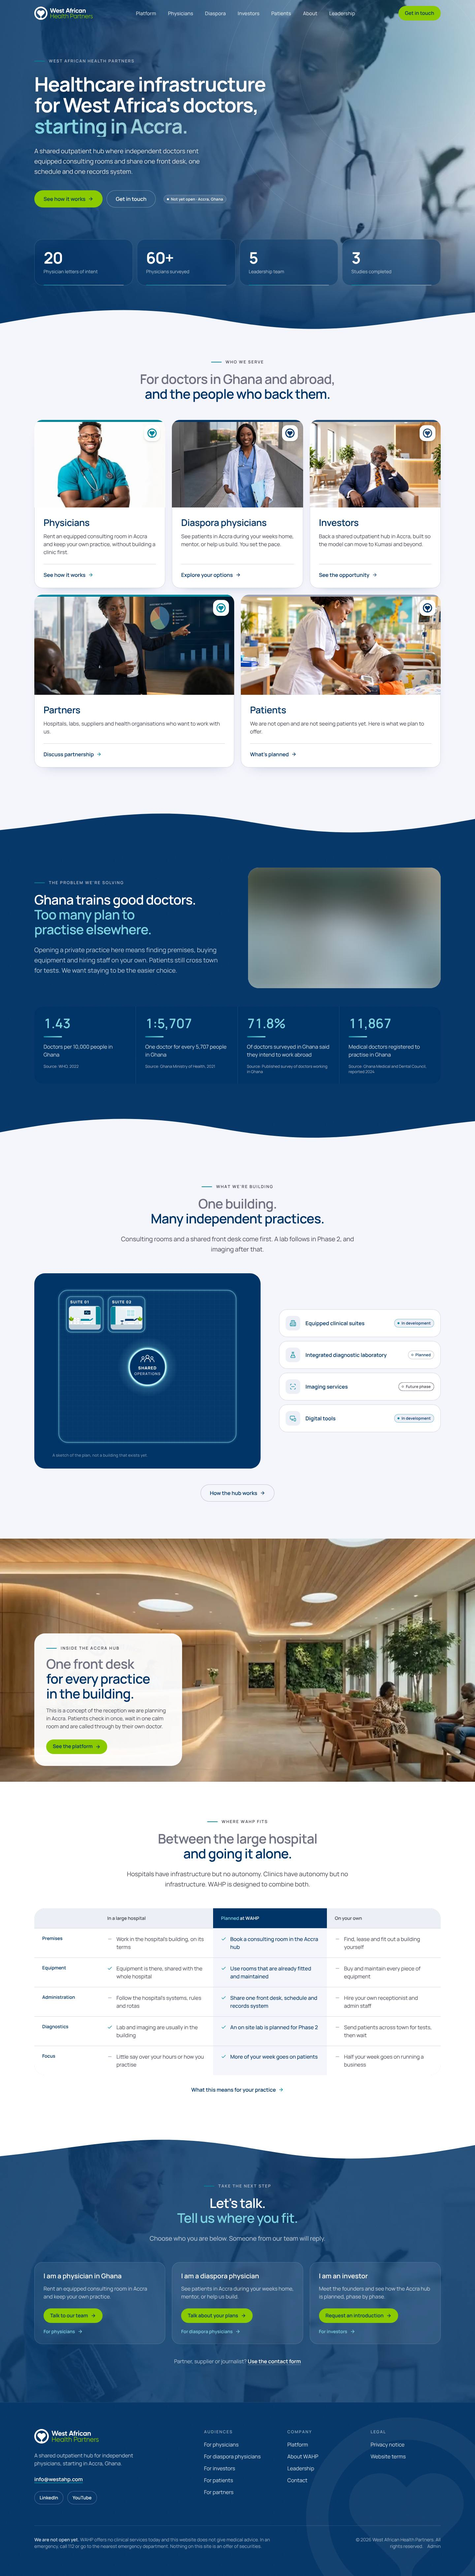
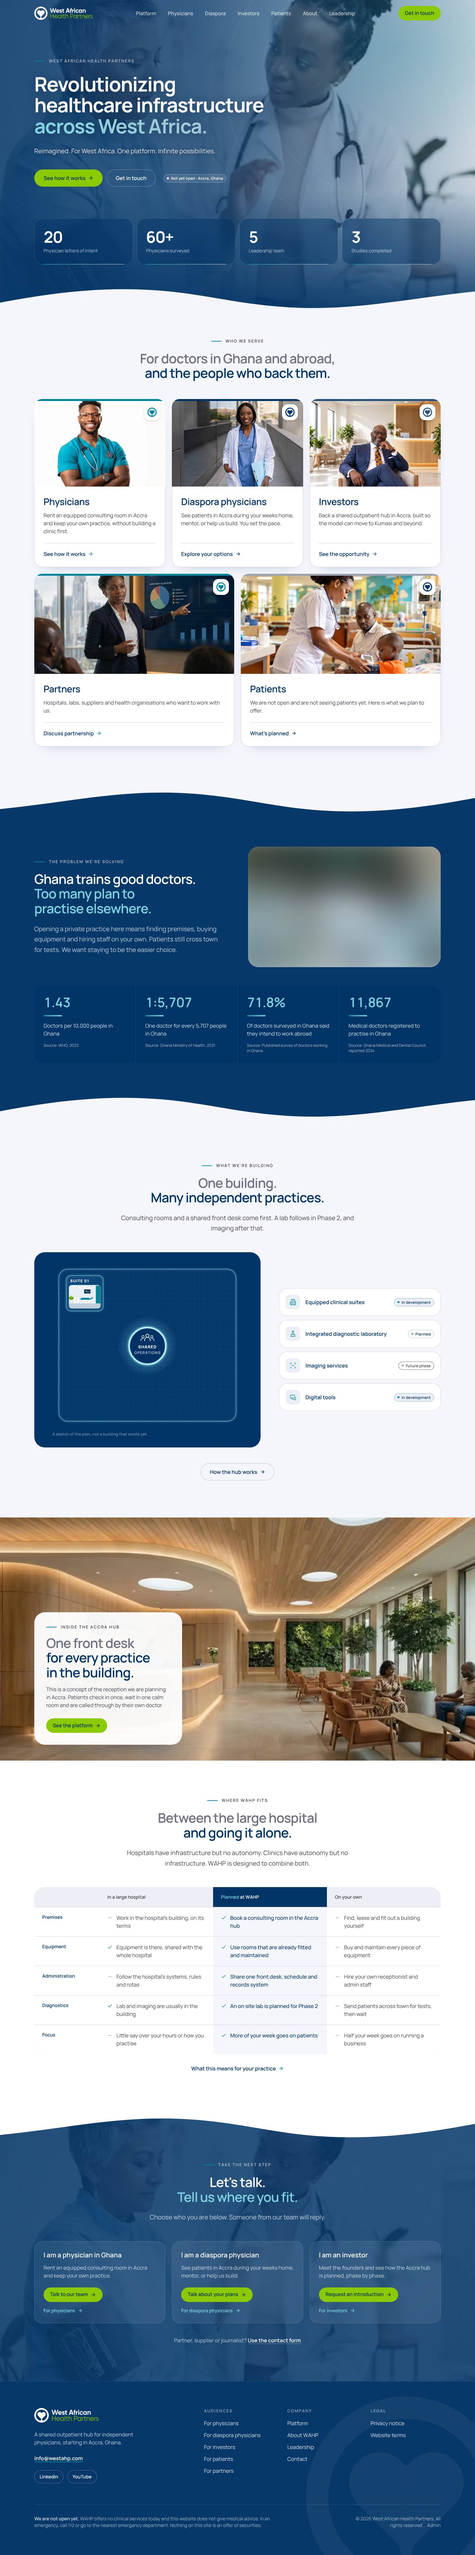
Use the older build's hero wording on Home
"Revolutionizing healthcare infrastructure across West Africa." with
"Reimagined. For West Africa. One platform. Infinite possibilities."
(owner request; sentence case to match the site). The "Not yet open"
badge stays. Content approval item resolved; screenshots refreshed.

Claude-Session: https://claude.ai/code/session_01Gg6TP4sXwQchVWe3LbXuH5

diff --git a/docs/CONTENT_APPROVAL.md b/docs/CONTENT_APPROVAL.md
@@ -4,7 +4,7 @@ The decisions below block or shape public launch. The machine-readable register 
 
 ## A. Critical decisions (please answer before launch)
 
-2. **Hero headline.** *Update 21 Oct 2026:* the owner asked for the Home page to follow the newer build. It now reads *"Reimagining healthcare infrastructure for West Africa."* This is a softened form of that build's *"Revolutionizing Healthcare Infrastructure Across West Africa"*, which reads as already operating region-wide while WAHP is pre-launch in Accra. Either wording can be set in the site admin (Home page header). Earlier the site used *"Infrastructure for independent medicine."* Alternatives found in the owner's own materials, including the newer build's *"Revolutionizing Healthcare Infrastructure Across West Africa"*:
+2. **Hero headline.** *Resolved 5 Nov 2026:* at the owner's request the Home hero uses the older WordPress build's wording: "Revolutionizing healthcare infrastructure across West Africa." with the line "Reimagined. For West Africa. One platform. Infinite possibilities." (sentence case to match the site). The "Not yet open · Accra, Ghana" badge stays beside the buttons, since the headline reads region wide while WAHP is pre-launch in Accra. History: *Update 21 Oct 2026:* the owner asked for the Home page to follow the newer build. It now reads *"Reimagining healthcare infrastructure for West Africa."* This is a softened form of that build's *"Revolutionizing Healthcare Infrastructure Across West Africa"*, which reads as already operating region-wide while WAHP is pre-launch in Accra. Either wording can be set in the site admin (Home page header). Earlier the site used *"Infrastructure for independent medicine."* Alternatives found in the owner's own materials, including the newer build's *"Revolutionizing Healthcare Infrastructure Across West Africa"*:
    - *"Grow Your Practice with West African Health Partners"* (CEO, Master Brief)
    - *"The infrastructure physicians need to practice at their highest level."* (March blueprint)
    - *"The Infrastructure for Africa's Next Healthcare Revolution"* (deck)

diff --git a/docs/IMPLEMENTATION_LOG.md b/docs/IMPLEMENTATION_LOG.md
@@ -269,3 +269,8 @@ Both redrawn as inline SVG after the owner's mockups, so they stay sharp, keep t
 - At the owner's request the phone hero has the video behind the text again, under the original 75% navy, rather than in a band above it. It now covers the first screen (header to buttons, `100svh`, 40 to 56rem) instead of the whole tall hero, which halves the zoom, and it is framed on the doctor (`object-position: 63% 50%`). It fades into navy above the stat cards. The text starts where it did originally.
 - Correction to the earlier desktop change: measured on the brightest frames (a close up of the doctor's white coat), the end of the headline sat where the overlay was only about 50% navy, under 3:1. The desktop overlay now stays dense behind the whole text block (86% to 78% to 62% at 58% of the width) and opens to 15% on the right, where the doctor shows.
 - Contrast measured behind the words themselves (tight text boxes, text hidden, shadows off), at six points in the loop: phones, headline 5.8:1, teal line 3.2:1, intro 5.9:1; desktop, 4.9:1, 3.7:1 and 6.6:1.
+
+## 5 Nov 2026, the older build's hero wording
+
+- At the owner's request the Home hero now reads "Revolutionizing healthcare infrastructure / across West Africa." with "Reimagined. For West Africa. One platform. Infinite possibilities." below, the wording of the older WordPress build (sentence case to match the site). Set in `content/data/pages/home.json`, so it stays editable in the site admin.
+- The "Not yet open · Accra, Ghana" badge stays beside the buttons. Hero contrast re-measured with the new line lengths: still AA on phones and desktop.
